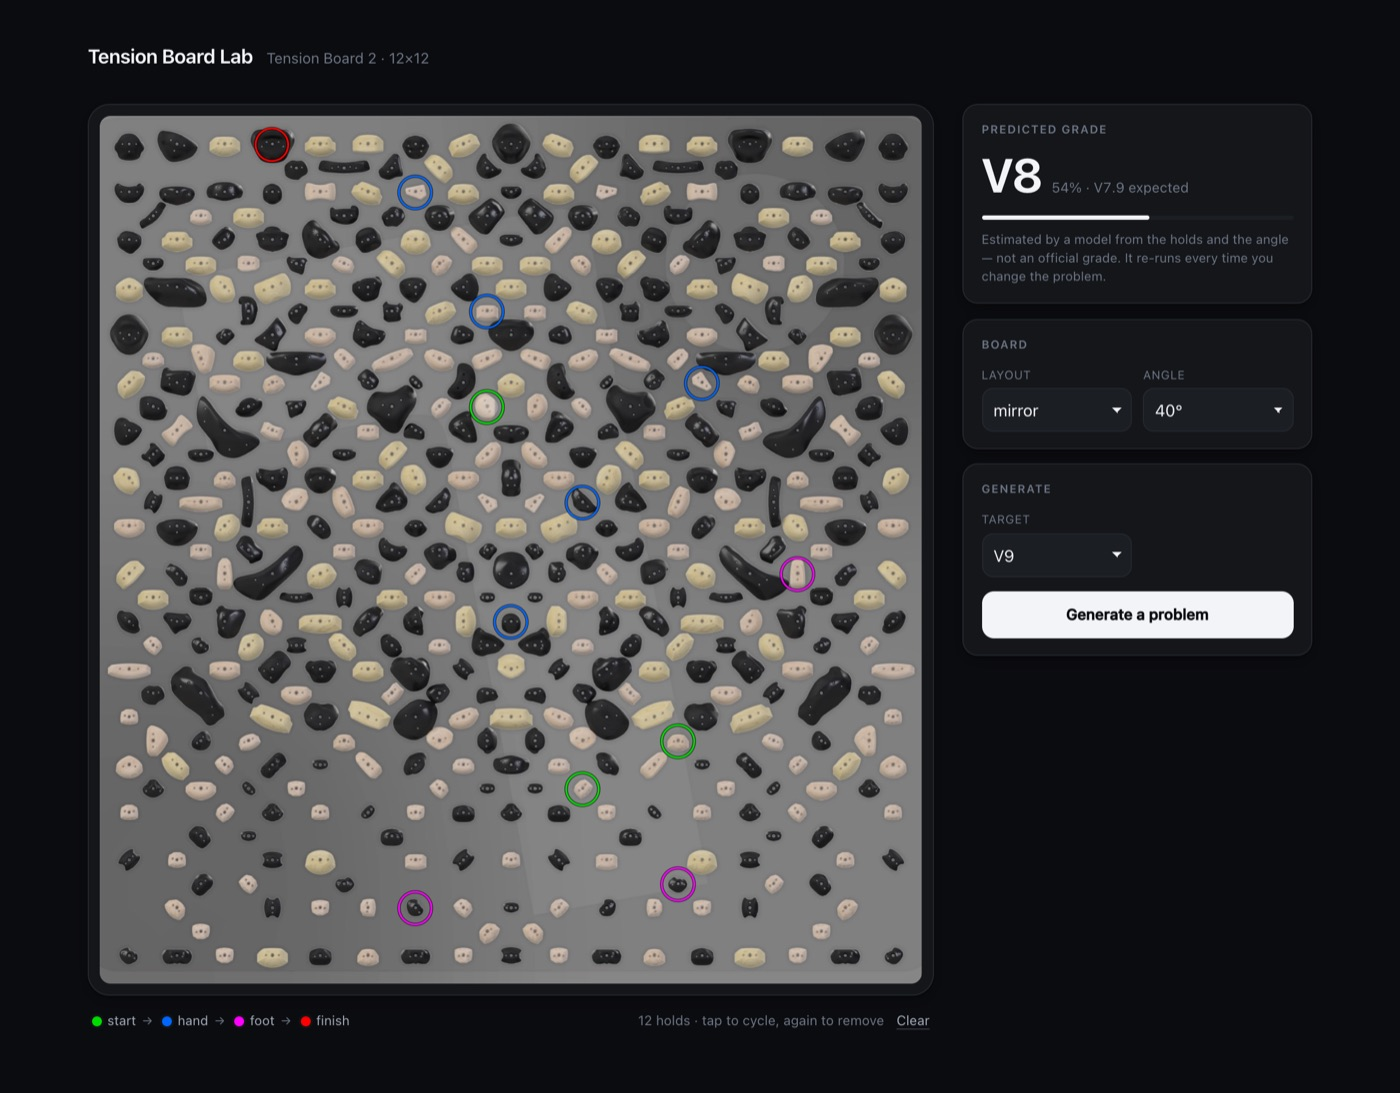
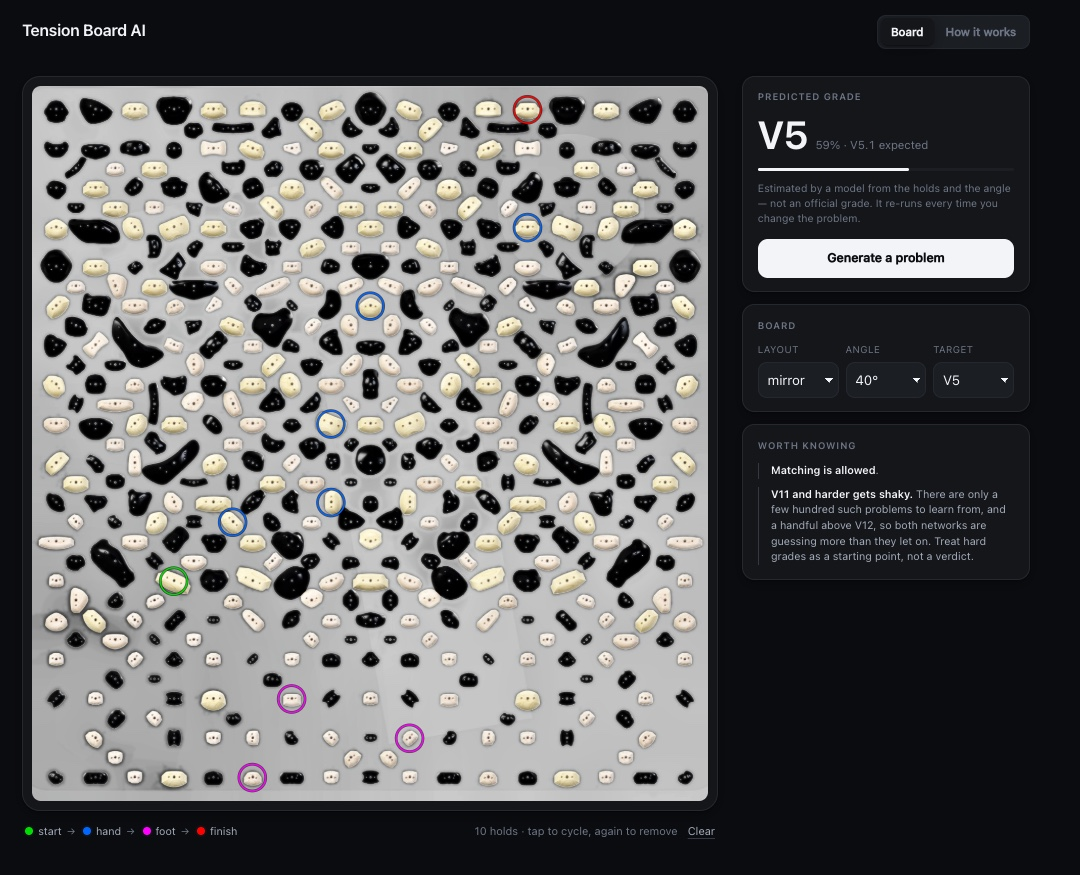
adjust images

diff --git a/web/index.html b/web/index.html
@@ -4,6 +4,8 @@
     <meta charset="UTF-8" />
     <link rel="icon" type="image/svg+xml" href="/favicon.svg" />
     <meta name="viewport" content="width=device-width, initial-scale=1.0" />
+    <!-- The board images are Tension's. Keep the app findable, keep their renders out of image search. -->
+    <meta name="robots" content="noimageindex" />
     <title>Tension Board AI</title>
   </head>
   <body>
